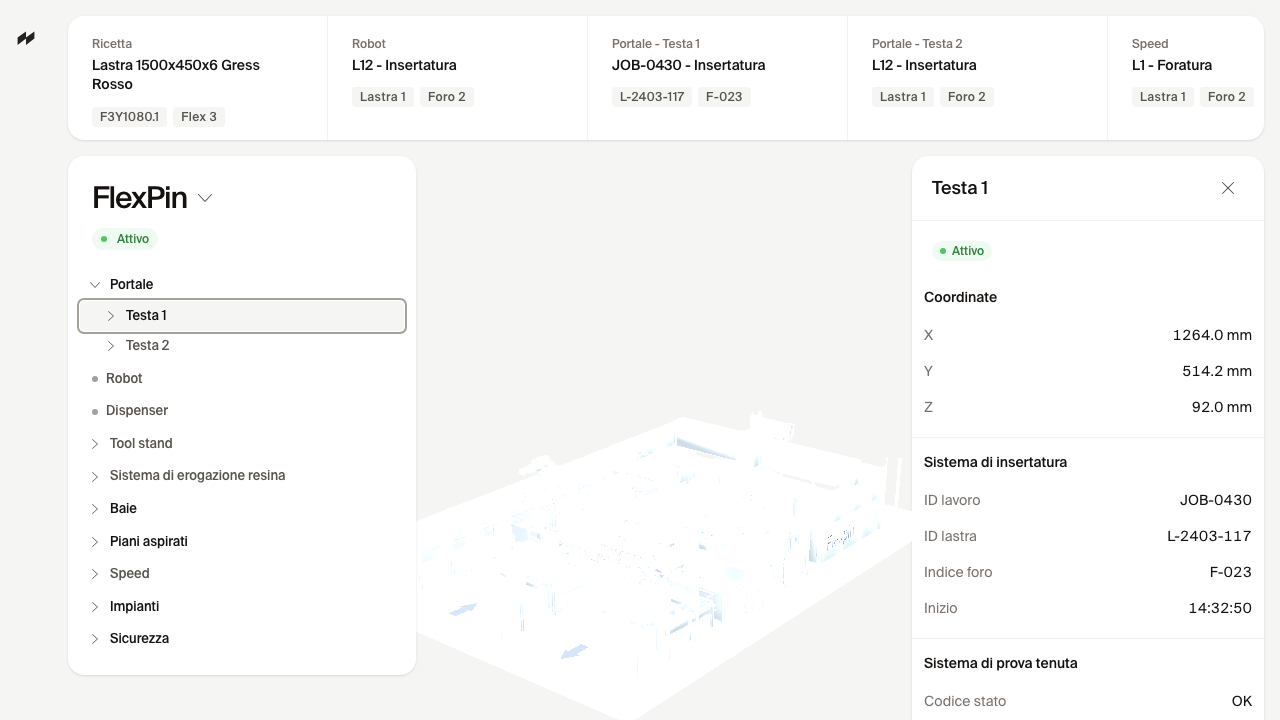
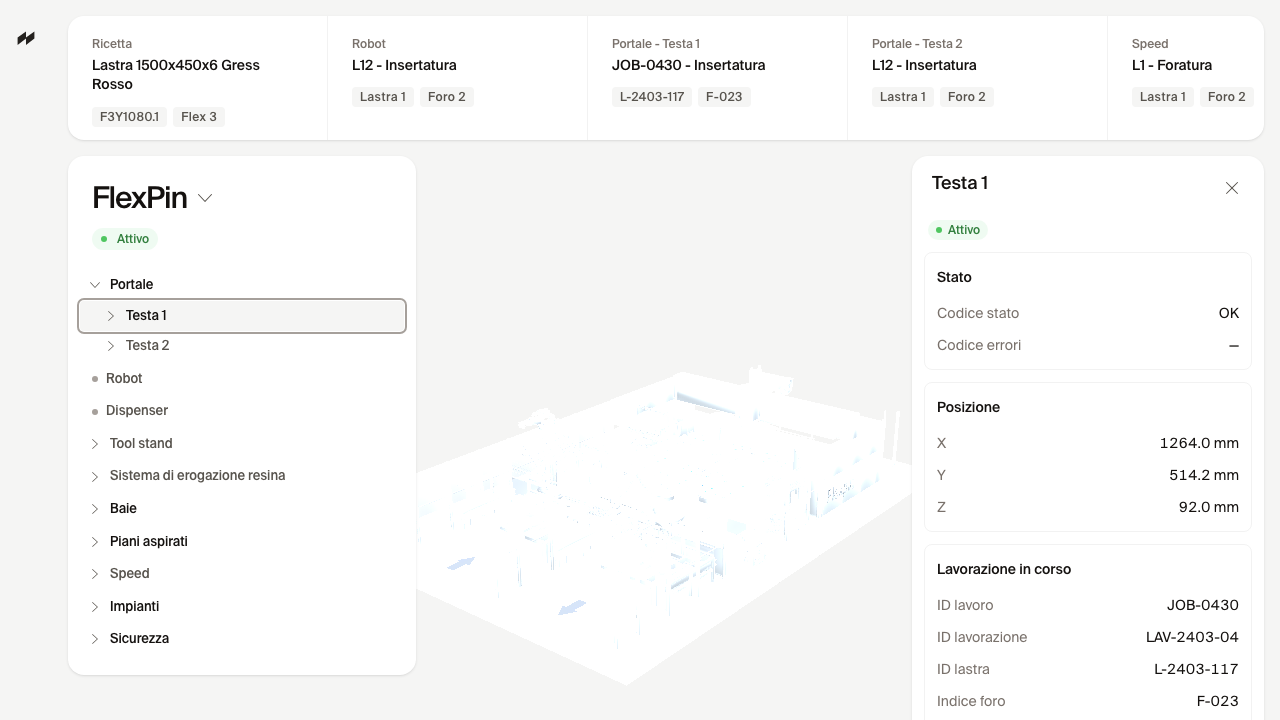
feat(portale-testa-1): scope panel to Testa 1's own data only
Restructured the right panel sections to match the per-device data
model:
- Stato: codice stato, codice errori
- Posizione: X / Y / Z
- Lavorazione in corso: id lavoro, id lavorazione (new), id lastra,
  indice foro, inizio, fine precedente

Tenuta and Erogatore sections were removed — those belong to their
own sub-devices (portale-testa-1-tenuta, portale-testa-1-erogatore)
and will be surfaced when those nodes are selected. Initial state
now seeds codice stato OK, empty error array, and an idLavorazione
of LAV-2403-04 with a realistic inizio/finePrec timestamp pair.

diff --git a/src/devices/portale-testa-1/panel.tsx b/src/devices/portale-testa-1/panel.tsx
@@ -2,7 +2,7 @@ import { DataRow } from '@/components/patterns/data-row'
 import { DataSection } from '@/components/patterns/data-section'
 import { StatusBadge } from '@/components/primitives/status-badge'
 import { useDeviceState } from '@/hooks/use-device-state'
-import { formatMm, formatPercent, formatTime } from '@/lib/format'
+import { formatMm, formatTime } from '@/lib/format'
 import type { PortaleTesta1State } from './state'
 
 const STATUS_LABELS: Record<PortaleTesta1State['status'], string> = {
@@ -16,37 +16,45 @@ const STATUS_LABELS: Record<PortaleTesta1State['status'], string> = {
 export function Panel() {
   const s = useDeviceState<PortaleTesta1State>('portale-testa-1')
   if (!s) return null
+
+  // Errori shown as a comma list when present, em-quad placeholder when
+  // empty — tabular-nums alignment + a placeholder keeps the row from
+  // appearing to "collapse" visually when there's no error to report.
+  const erroriValue =
+    s.codiceErrori && s.codiceErrori.length > 0
+      ? s.codiceErrori.join(', ')
+      : '—'
+
   return (
     <div className="flex flex-col gap-3 px-3 pt-1 pb-3">
-      {/* Status reads as a property of the device title, not a section
-          on its own — sits directly under the panel header. */}
       <div className="px-1">
         <StatusBadge status={s.status}>{STATUS_LABELS[s.status]}</StatusBadge>
       </div>
-      <DataSection title="Coordinate">
+
+      <DataSection title="Stato">
+        <DataRow label="Codice stato" value={s.codiceStato ?? '—'} />
+        <DataRow label="Codice errori" value={erroriValue} />
+      </DataSection>
+
+      <DataSection title="Posizione">
         <DataRow label="X" value={formatMm(s.position.x)} />
         <DataRow label="Y" value={formatMm(s.position.y)} />
         <DataRow label="Z" value={formatMm(s.position.z)} />
       </DataSection>
+
       {s.lavorazione && (
-        <DataSection title="Sistema di insertatura">
+        <DataSection title="Lavorazione in corso">
           <DataRow label="ID lavoro" value={s.lavorazione.idLavoro} />
+          <DataRow label="ID lavorazione" value={s.lavorazione.idLavorazione} />
           <DataRow label="ID lastra" value={s.lavorazione.idLastra} />
           <DataRow label="Indice foro" value={s.lavorazione.indiceForo} />
           <DataRow label="Inizio" value={formatTime(s.lavorazione.inizio)} />
+          <DataRow
+            label="Fine precedente"
+            value={formatTime(s.lavorazione.finePrec)}
+          />
         </DataSection>
       )}
-      <DataSection title="Sistema di prova tenuta">
-        <DataRow label="Codice stato" value={s.tenuta.codiceStato} />
-        <DataRow
-          label="Livello depressione"
-          value={formatPercent(s.tenuta.livelloDepressione)}
-        />
-        <DataRow label="Modalità" value={s.tenuta.modalita} />
-      </DataSection>
-      <DataSection title="Erogatore (resina)">
-        <DataRow label="Stato" value={s.erogatore.stato} />
-      </DataSection>
     </div>
   )
 }

diff --git a/src/devices/portale-testa-1/panel.test.tsx b/src/devices/portale-testa-1/panel.test.tsx
@@ -5,13 +5,13 @@ import { initialState } from './state'
 import { Panel } from './panel'
 
 describe('PortaleTesta1 Panel', () => {
-  it('renders coordinate, insertatura, tenuta, erogatore sections', () => {
+  it('renders Stato, Posizione, and Lavorazione sections', () => {
     useMachineStore.getState().setDevice('portale-testa-1', initialState)
     render(<Panel />)
-    expect(screen.getByText('Coordinate')).toBeInTheDocument()
-    expect(screen.getByText('Sistema di insertatura')).toBeInTheDocument()
-    expect(screen.getByText('Sistema di prova tenuta')).toBeInTheDocument()
-    expect(screen.getByText('Erogatore (resina)')).toBeInTheDocument()
+    expect(screen.getByText('Stato')).toBeInTheDocument()
+    expect(screen.getByText('Posizione')).toBeInTheDocument()
+    expect(screen.getByText('Lavorazione in corso')).toBeInTheDocument()
     expect(screen.getByText('JOB-0430')).toBeInTheDocument()
+    expect(screen.getByText('LAV-2403-04')).toBeInTheDocument()
   })
 })

diff --git a/src/devices/portale-testa-1/state.ts b/src/devices/portale-testa-1/state.ts
@@ -14,6 +14,7 @@ export const portaleTesta1Schema = z.object({
   lavorazione: z
     .object({
       idLavoro: z.string(),
+      idLavorazione: z.string(),
       idLastra: z.string(),
       indiceForo: z.string(),
       inizio: z.number(),
@@ -37,14 +38,17 @@ export const initialState: PortaleTesta1State = {
   label: 'Testa 1',
   parentId: 'portale',
   status: 'active',
+  codiceStato: 'OK',
+  codiceErrori: [],
   position: { x: 1264.0, y: 514.2, z: 92.0 },
   positionTarget: { x: 1264.0, y: 514.2, z: 92.0 },
   lavorazione: {
     idLavoro: 'JOB-0430',
+    idLavorazione: 'LAV-2403-04',
     idLastra: 'L-2403-117',
     indiceForo: 'F-023',
-    inizio: Date.now(),
-    finePrec: null,
+    inizio: Date.now() - 12 * 60 * 1000,
+    finePrec: Date.now() - 22 * 60 * 1000,
   },
   tenuta: { codiceStato: 'OK', livelloDepressione: 0.82, modalita: 'aspirazione' },
   erogatore: { stato: 'chiuso' },

diff --git a/tests/e2e/portale-testa-1.spec.ts b/tests/e2e/portale-testa-1.spec.ts
@@ -2,8 +2,8 @@ import { test, expect } from '@playwright/test'
 
 test('Portale Testa 1: select → panel → command → close', async ({ page }) => {
   await page.goto('/?device=portale-testa-1')
-  await expect(page.getByText('Coordinate')).toBeVisible()
-  await expect(page.getByText('Sistema di insertatura')).toBeVisible()
+  await expect(page.getByText('Posizione')).toBeVisible()
+  await expect(page.getByText('Lavorazione in corso')).toBeVisible()
   await expect(page.getByText('JOB-0430', { exact: true })).toBeVisible()
 
   // Riposo 1 command should set positionTarget to (0,0,0) and the tick